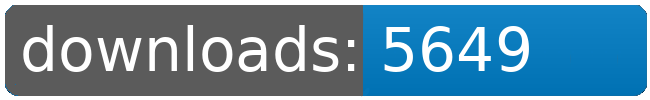
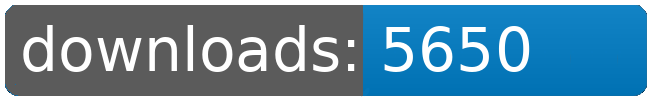
dl log written

Changed region(s): [[0.7077, 0.24, 0.8308, 0.72]]

diff --git a/README.md b/README.md
@@ -21,8 +21,8 @@
 		<td>5531</td>
 		<td>5577</td>
 		<td>5620</td>
-		<td>5649</td>
-		<td>+ 29</td>
+		<td>5650</td>
+		<td>+ 30</td>
 	</tr>
 	<tr>
 		<td>Factory.Outlets</td>
@@ -109,8 +109,8 @@
 		<td></td>
 		<td></td>
 		<td></td>
-		<td>44437</td>
-		<td>176</td>
+		<td>44438</td>
+		<td>177</td>
 	</tr>
 </table>
 </sub></sup>
@@ -157,8 +157,8 @@
 		<td>5531</td>
 		<td>5577</td>
 		<td>5620</td>
-		<td>5649</td>
-		<td>+ 29</td>
+		<td>5650</td>
+		<td>+ 30</td>
 	</tr>
 	<tr>
 		<td>Korunak.Defense.Drones</td>
@@ -223,8 +223,8 @@
 		<td></td>
 		<td></td>
 		<td></td>
-		<td>44437</td>
-		<td>176</td>
+		<td>44438</td>
+		<td>177</td>
 	</tr>
 </table>
 </sub></sup>
